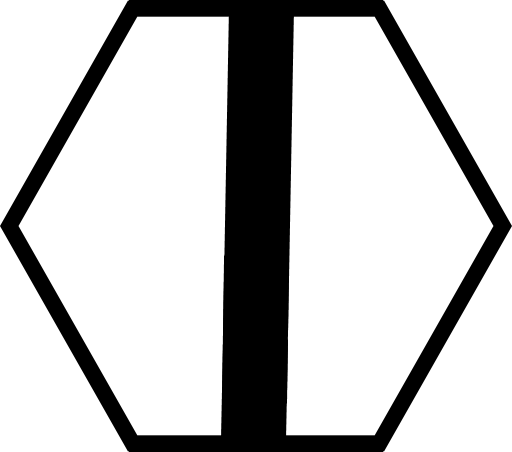
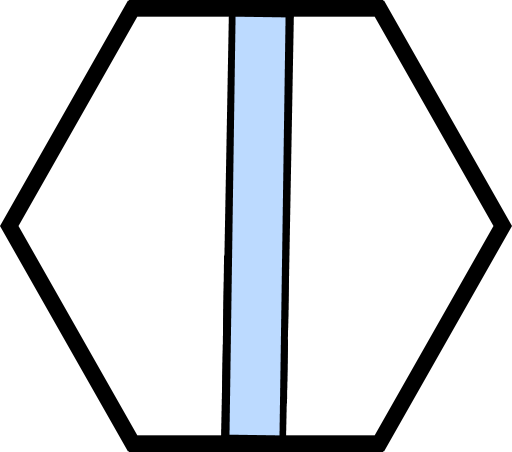
Assets for roads

Changed region(s): [[0.4375, 0.031, 0.5625, 0.9912]]

diff --git a/src/main/game/view/MainView.java b/src/main/game/view/MainView.java
@@ -798,6 +798,30 @@ public class MainView extends View
         drawImage(assets.ROAD_N,x,y,z);
     }
 
+    private void drawRoadNE(int x, int y, int z){
+        drawImage(assets.ROAD_NE, x,y,z);
+        drawImage(assets.ROAD_SW, x+1,y,z-1);
+    }
+
+    private void drawRoadSE(int x, int y, int z){
+        drawImage(assets.ROAD_SE, x,y,z);
+        drawImage(assets.ROAD_NW,x+1,y,z);
+    }
+    private void drawRoadSouth(int x, int y, int z){
+        drawRoadNorth(x,y,z+1);
+    }
+    private void drawRoadNW(int x, int y, int z){
+        drawImage(assets.ROAD_SE, x-1,y,z);
+        drawImage(assets.ROAD_NW,x,y,z);
+    }
+    private void drawRoadSW(int x, int y, int z){
+        drawImage(assets.ROAD_SW, x,y,z);
+        drawImage(assets.ROAD_NE,x-1,y,z+1);
+    }
+    private void drawN_TO_S_ROAD(int x, int y, int z){
+        drawImage(assets.ROAD_N_TO_S, x,y,z);
+    }
+
 
     private void TESTING_REMOVE_LATER(){
 
@@ -829,6 +853,13 @@ public class MainView extends View
 
 
         drawRoadNorth(1,0,1);
+        drawRoadNE(1,0,1);
+        drawRoadSE(1,0,1);
+        drawRoadSouth(1,0,1);
+        drawRoadNW(1,0,1);
+        drawRoadSW(1,0,1);
+        drawN_TO_S_ROAD(1,0,0);
+        drawN_TO_S_ROAD(1,0,-1);
         //drawImage(assets.WALL_BLUE_NORTH,0,0,-1);
         //drawImage(assets.WALL_BLUE_SOUTH,0,0,-1);
 

diff --git a/src/main/game/view/utilities/Assets.java b/src/main/game/view/utilities/Assets.java
@@ -194,6 +194,7 @@ public class Assets {
     public Image ROAD_S;
     public Image ROAD_SW;
     public Image ROAD_NW;
+    public Image ROAD_N_TO_S;
 
 
     public Image PROCESS_CHART;
@@ -363,6 +364,7 @@ public class Assets {
             ROAD_S =  new Image(this.getClass().getResourceAsStream("/roads/roadS.png"));
             ROAD_SW =  new Image(this.getClass().getResourceAsStream("/roads/roadSW.png"));
             ROAD_NW =  new Image(this.getClass().getResourceAsStream("/roads/roadNW.png"));
+            ROAD_N_TO_S = new Image(this.getClass().getResourceAsStream("/roads/roadN_TO_S.png"));
 
             PROCESS_CHART = new Image(this.getClass().getResourceAsStream("/misc/process_chart.jpg"));
 
